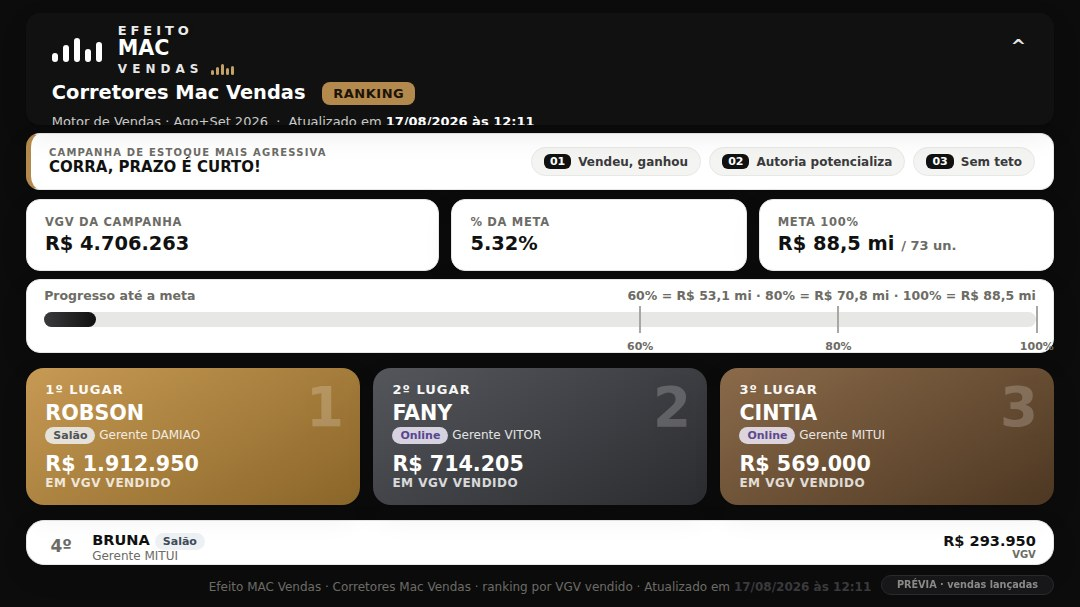
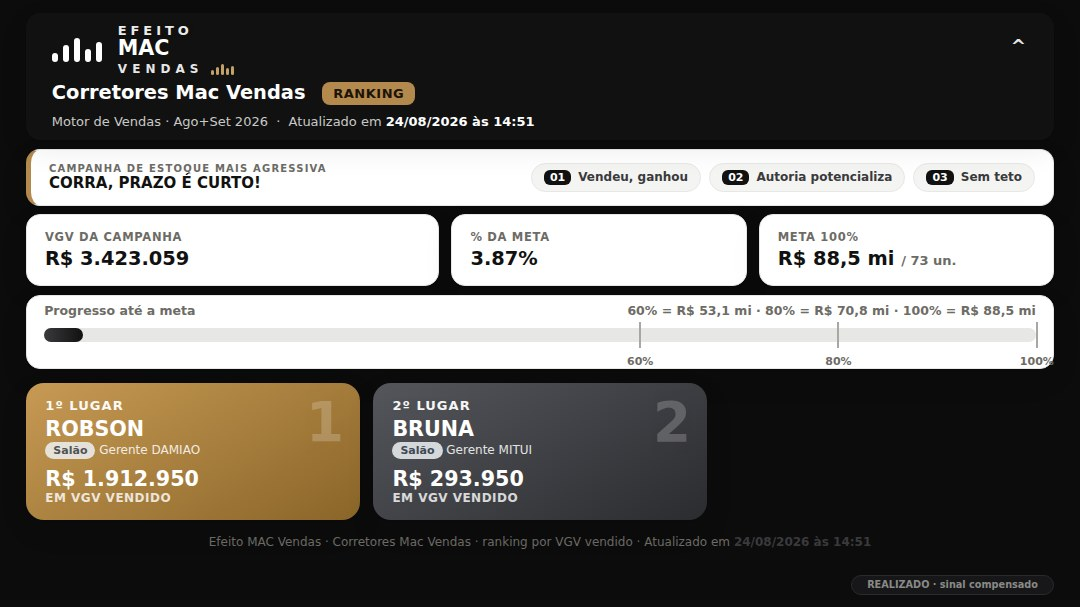
Atualiza números da campanha — posição de 24/08

diff --git a/mural-corretores.html b/mural-corretores.html
@@ -75,7 +75,7 @@ body.tv .foot{margin-top:1vh}body.tv .rot{position:fixed;bottom:2vh;right:2.4vw;
       <div class="logo"><div class="l1">EFEITO</div><div class="l2">MAC</div>
         <div class="l3">VENDAS <span class="bb"><i style="height:5px"></i><i style="height:8px"></i><i style="height:11px"></i><i style="height:7px"></i><i style="height:9px"></i></span></div></div></div>
     <div class="title">Corretores Mac Vendas <span class="tag">RANKING</span></div>
-    <div class="upd">Motor de Vendas · Ago+Set 2026 &nbsp;·&nbsp; Atualizado em <b>17/08/2026 às 12:11</b></div></header>
+    <div class="upd">Motor de Vendas · Ago+Set 2026 &nbsp;·&nbsp; Atualizado em <b>24/08/2026 às 14:51</b></div></header>
   <div class="copy"><div class="hot"><small>Campanha de estoque mais agressiva</small>CORRA, PRAZO É CURTO!</div>
     <div class="efe"><span class="chip"><b>01</b> Vendeu, ganhou</span><span class="chip"><b>02</b> Autoria potencializa</span><span class="chip"><b>03</b> Sem teto</span></div></div>
   <div class="metabar">
@@ -89,11 +89,11 @@ body.tv .foot{margin-top:1vh}body.tv .rot{position:fixed;bottom:2vh;right:2.4vw;
     <button id="btnProj" onclick="setView('projecao')">Projeção · vendas lançadas</button></div>
   <div class="vnote" id="vnote"></div>
   <div id="podium" class="podium"></div><div id="list" class="list"></div>
-  <div class="foot">Efeito MAC Vendas · Corretores Mac Vendas · ranking por VGV vendido · Atualizado em <b>17/08/2026 às 12:11</b></div>
+  <div class="foot">Efeito MAC Vendas · Corretores Mac Vendas · ranking por VGV vendido · Atualizado em <b>24/08/2026 às 14:51</b></div>
   <div class="rot" id="rot" style="display:none"></div>
 </div>
 <script>
-const DATA={"meta": {"vgv": 88516862, "unid": 73, "t60": 53110117, "t80": 70813490, "t100": 88516862}, "realizado": {"vgv_total": 2812189.0, "unid_total": 3.0, "pct": 0.03177009370259872, "trigger": 0, "corretores": {"ROBSON": {"canal": "SALÃO", "gerente": "DAMIAO", "vgv": 1912950.0, "vendas": 1.5, "premiacao": 5000, "detalhe": ["1x Mac Brooklin [sozinho (75%)] -> R$5,000", "(0,5 de Autoria descartada — não fecha unidade)"]}, "BRUNA": {"canal": "SALÃO", "gerente": "MITUI", "vgv": 293950.0, "vendas": 0.5, "premiacao": 0, "detalhe": ["0,5 venda — não pontua até somar 1 unidade"]}}, "gerentes": {"DAMIAO": {"vgv": 1912950.0, "vendas": 1.5, "equipe": ["ROBSON"], "premiacao": 3000, "parcerias_fixo": 0, "total": 3000, "detalhe": ["1x Mac Brooklin [sozinho (75%)] -> R$3,000"]}, "DIEGO": {"vgv": 605289.0, "vendas": 1.0, "equipe": ["JENIFFER"], "premiacao": 1000, "parcerias_fixo": 2000, "total": 3000, "detalhe": ["1x Autoria MAC -> R$1,000"]}, "MITUI": {"vgv": 293950.0, "vendas": 0.5, "equipe": ["BRUNA"], "premiacao": 0, "parcerias_fixo": 0, "total": 0, "detalhe": []}}, "parcerias": {"DIEGO": {"vendas": 1.0, "vgv": 605289.0, "unidades": 1, "fixo": 2000, "corretores": [{"nome": "JENIFFER", "vendas": 1.0, "vgv": 605289.0}]}}, "comercial": {"Luiz": 2812.19, "Bruno": 1619.0, "Danilo": 1193.19, "variavel_por_gestor": 0}, "premio_extra": 0, "sorteio": "—"}, "projecao": {"vgv_total": 4706263.44, "unid_total": 6.0, "pct": 0.05316798781231084, "trigger": 0, "corretores": {"CINTIA": {"canal": "ONLINE", "gerente": "MITUI", "vgv": 569000.0, "vendas": 1.0, "premiacao": 2000, "detalhe": ["1x Autoria MAC [sozinha] -> R$2,000"]}, "ROBSON": {"canal": "SALÃO", "gerente": "DAMIAO", "vgv": 1912950.0, "vendas": 1.5, "premiacao": 5000, "detalhe": ["1x Mac Brooklin [sozinho (75%)] -> R$5,000", "(0,5 de Autoria descartada — não fecha unidade)"]}, "BRUNA": {"canal": "SALÃO", "gerente": "MITUI", "vgv": 293950.0, "vendas": 0.5, "premiacao": 0, "detalhe": ["0,5 venda — não pontua até somar 1 unidade"]}, "FANY": {"canal": "ONLINE", "gerente": "VITOR", "vgv": 714204.86, "vendas": 1.0, "premiacao": 2000, "detalhe": ["1x Autoria MAC [sozinha] -> R$2,000"]}}, "gerentes": {"MITUI": {"vgv": 862950.0, "vendas": 1.5, "equipe": ["BRUNA", "CINTIA"], "premiacao": 1000, "parcerias_fixo": 0, "total": 1000, "detalhe": ["1x Autoria MAC -> R$1,000"]}, "DAMIAO": {"vgv": 1912950.0, "vendas": 1.5, "equipe": ["ROBSON"], "premiacao": 3000, "parcerias_fixo": 0, "total": 3000, "detalhe": ["1x Mac Brooklin [sozinho (75%)] -> R$3,000"]}, "DIEGO": {"vgv": 1216158.58, "vendas": 2.0, "equipe": ["FOXTER", "JENIFFER", "U REAL ESTATE"], "premiacao": 3000, "parcerias_fixo": 4000, "total": 7000, "detalhe": ["2x Autoria MAC -> R$3,000"]}, "VITOR": {"vgv": 714204.86, "vendas": 1.0, "equipe": ["FANY"], "premiacao": 1000, "parcerias_fixo": 0, "total": 1000, "detalhe": ["1x Autoria MAC -> R$1,000"]}}, "parcerias": {"DIEGO": {"vendas": 2.0, "vgv": 1216158.58, "unidades": 2, "fixo": 4000, "corretores": [{"nome": "FOXTER", "vendas": 0.5, "vgv": 305434.79}, {"nome": "JENIFFER", "vendas": 1.0, "vgv": 605289.0}, {"nome": "U REAL ESTATE", "vendas": 0.5, "vgv": 305434.79}]}}, "comercial": {"Luiz": 4706.26, "Bruno": 1619.0, "Danilo": 3087.26, "variavel_por_gestor": 0}, "premio_extra": 0, "sorteio": "—"}, "n_lancadas": 8, "n_validas": 4};const MODE="corretores";const TV=document.body.classList.contains('tv');let view='realizado';
+const DATA={"meta": {"vgv": 88516862, "unid": 73, "t60": 53110117, "t80": 70813490, "t100": 88516862}, "realizado": {"vgv_total": 3423058.58, "unid_total": 4.0, "pct": 0.03867125994592985, "trigger": 0, "corretores": {"ROBSON": {"canal": "SALÃO", "gerente": "DAMIAO", "vgv": 1912950.0, "vendas": 1.5, "premiacao": 5000, "detalhe": ["1x Mac Brooklin [sozinho (75%)] -> R$5,000", "(0,5 de Autoria descartada — não fecha unidade)"]}, "BRUNA": {"canal": "SALÃO", "gerente": "MITUI", "vgv": 293950.0, "vendas": 0.5, "premiacao": 0, "detalhe": ["0,5 venda — não pontua até somar 1 unidade"]}}, "gerentes": {"DAMIAO": {"vgv": 1912950.0, "vendas": 1.5, "equipe": ["ROBSON"], "premiacao": 3000, "parcerias_fixo": 0, "total": 3000, "detalhe": ["1x Mac Brooklin [sozinho (75%)] -> R$3,000"]}, "DIEGO": {"vgv": 1216158.58, "vendas": 2.0, "equipe": ["FOXTER", "JENIFFER", "U REAL ESTATE"], "premiacao": 3000, "parcerias_fixo": 4000, "total": 7000, "detalhe": ["2x Autoria MAC -> R$3,000"]}, "MITUI": {"vgv": 293950.0, "vendas": 0.5, "equipe": ["BRUNA"], "premiacao": 0, "parcerias_fixo": 0, "total": 0, "detalhe": []}}, "parcerias": {"DIEGO": {"vendas": 2.0, "vgv": 1216158.58, "unidades": 2, "fixo": 4000, "corretores": [{"nome": "FOXTER", "vendas": 0.5, "vgv": 305434.79}, {"nome": "JENIFFER", "vendas": 1.0, "vgv": 605289.0}, {"nome": "U REAL ESTATE", "vendas": 0.5, "vgv": 305434.79}]}}, "comercial": {"Luiz": 3423.06, "Bruno": 1619.0, "Danilo": 1804.06, "variavel_por_gestor": 0}, "premio_extra": 0, "sorteio": "—"}, "projecao": {"vgv_total": 7147263.44, "unid_total": 8.0, "pct": 0.08074465450435873, "trigger": 0, "corretores": {"ROBSON": {"canal": "SALÃO", "gerente": "DAMIAO", "vgv": 1912950.0, "vendas": 1.5, "premiacao": 5000, "detalhe": ["1x Mac Brooklin [sozinho (75%)] -> R$5,000", "(0,5 de Autoria descartada — não fecha unidade)"]}, "BRUNA": {"canal": "SALÃO", "gerente": "MITUI", "vgv": 293950.0, "vendas": 0.5, "premiacao": 0, "detalhe": ["0,5 venda — não pontua até somar 1 unidade"]}, "FANY": {"canal": "ONLINE", "gerente": "VITOR", "vgv": 714204.86, "vendas": 1.0, "premiacao": 2000, "detalhe": ["1x Autoria MAC [sozinha] -> R$2,000"]}}, "gerentes": {"DAMIAO": {"vgv": 1912950.0, "vendas": 1.5, "equipe": ["ROBSON"], "premiacao": 3000, "parcerias_fixo": 0, "total": 3000, "detalhe": ["1x Mac Brooklin [sozinho (75%)] -> R$3,000"]}, "DIEGO": {"vgv": 3116158.58, "vendas": 3.0, "equipe": ["FOXTER", "JENIFFER", "U REAL ESTATE", "VIVIANE"], "premiacao": 8000, "parcerias_fixo": 6000, "total": 14000, "detalhe": ["1x Mac Vila Clementino + 2x Autoria MAC -> R$8,000"]}, "MITUI": {"vgv": 293950.0, "vendas": 0.5, "equipe": ["BRUNA"], "premiacao": 0, "parcerias_fixo": 0, "total": 0, "detalhe": []}, "VITOR": {"vgv": 714204.86, "vendas": 1.0, "equipe": ["FANY"], "premiacao": 1000, "parcerias_fixo": 0, "total": 1000, "detalhe": ["1x Autoria MAC -> R$1,000"]}}, "parcerias": {"DIEGO": {"vendas": 3.0, "vgv": 3116158.58, "unidades": 3, "fixo": 6000, "corretores": [{"nome": "FOXTER", "vendas": 0.5, "vgv": 305434.79}, {"nome": "JENIFFER", "vendas": 1.0, "vgv": 605289.0}, {"nome": "U REAL ESTATE", "vendas": 0.5, "vgv": 305434.79}, {"nome": "VIVIANE", "vendas": 1.0, "vgv": 1900000.0}]}}, "comercial": {"Luiz": 7147.26, "Bruno": 1619.0, "Danilo": 5528.26, "variavel_por_gestor": 0}, "premio_extra": 0, "sorteio": "—"}, "n_lancadas": 10, "n_validas": 6};const MODE="corretores";const TV=document.body.classList.contains('tv');let view='realizado';
 const brl=v=>'R$ '+Math.round(v).toLocaleString('pt-BR');
 const canalChip=c=>{const m={'SALÃO':['sal','Salão'],'ONLINE':['onl','Online']};const x=m[c]||['sal',c];return `<span class="pchip ${x[0]}">${x[1]}</span>`;};
 function rows(){const r=DATA[view];

diff --git a/ranking-corretores.html b/ranking-corretores.html
@@ -75,7 +75,7 @@ body.tv .foot{margin-top:1vh}body.tv .rot{position:fixed;bottom:2vh;right:2.4vw;
       <div class="logo"><div class="l1">EFEITO</div><div class="l2">MAC</div>
         <div class="l3">VENDAS <span class="bb"><i style="height:5px"></i><i style="height:8px"></i><i style="height:11px"></i><i style="height:7px"></i><i style="height:9px"></i></span></div></div></div>
     <div class="title">Corretores Mac Vendas <span class="tag">RANKING</span></div>
-    <div class="upd">Motor de Vendas · Ago+Set 2026 &nbsp;·&nbsp; Atualizado em <b>17/08/2026 às 12:11</b></div></header>
+    <div class="upd">Motor de Vendas · Ago+Set 2026 &nbsp;·&nbsp; Atualizado em <b>24/08/2026 às 14:51</b></div></header>
   <div class="copy"><div class="hot"><small>Campanha de estoque mais agressiva</small>CORRA, PRAZO É CURTO!</div>
     <div class="efe"><span class="chip"><b>01</b> Vendeu, ganhou</span><span class="chip"><b>02</b> Autoria potencializa</span><span class="chip"><b>03</b> Sem teto</span></div></div>
   <div class="metabar">
@@ -89,11 +89,11 @@ body.tv .foot{margin-top:1vh}body.tv .rot{position:fixed;bottom:2vh;right:2.4vw;
     <button id="btnProj" onclick="setView('projecao')">Projeção · vendas lançadas</button></div>
   <div class="vnote" id="vnote"></div>
   <div id="podium" class="podium"></div><div id="list" class="list"></div>
-  <div class="foot">Efeito MAC Vendas · Corretores Mac Vendas · ranking por VGV vendido · Atualizado em <b>17/08/2026 às 12:11</b></div>
+  <div class="foot">Efeito MAC Vendas · Corretores Mac Vendas · ranking por VGV vendido · Atualizado em <b>24/08/2026 às 14:51</b></div>
   <div class="rot" id="rot" style="display:none"></div>
 </div>
 <script>
-const DATA={"meta": {"vgv": 88516862, "unid": 73, "t60": 53110117, "t80": 70813490, "t100": 88516862}, "realizado": {"vgv_total": 2812189.0, "unid_total": 3.0, "pct": 0.03177009370259872, "trigger": 0, "corretores": {"ROBSON": {"canal": "SALÃO", "gerente": "DAMIAO", "vgv": 1912950.0, "vendas": 1.5, "premiacao": 5000, "detalhe": ["1x Mac Brooklin [sozinho (75%)] -> R$5,000", "(0,5 de Autoria descartada — não fecha unidade)"]}, "BRUNA": {"canal": "SALÃO", "gerente": "MITUI", "vgv": 293950.0, "vendas": 0.5, "premiacao": 0, "detalhe": ["0,5 venda — não pontua até somar 1 unidade"]}}, "gerentes": {"DAMIAO": {"vgv": 1912950.0, "vendas": 1.5, "equipe": ["ROBSON"], "premiacao": 3000, "parcerias_fixo": 0, "total": 3000, "detalhe": ["1x Mac Brooklin [sozinho (75%)] -> R$3,000"]}, "DIEGO": {"vgv": 605289.0, "vendas": 1.0, "equipe": ["JENIFFER"], "premiacao": 1000, "parcerias_fixo": 2000, "total": 3000, "detalhe": ["1x Autoria MAC -> R$1,000"]}, "MITUI": {"vgv": 293950.0, "vendas": 0.5, "equipe": ["BRUNA"], "premiacao": 0, "parcerias_fixo": 0, "total": 0, "detalhe": []}}, "parcerias": {"DIEGO": {"vendas": 1.0, "vgv": 605289.0, "unidades": 1, "fixo": 2000, "corretores": [{"nome": "JENIFFER", "vendas": 1.0, "vgv": 605289.0}]}}, "comercial": {"Luiz": 2812.19, "Bruno": 1619.0, "Danilo": 1193.19, "variavel_por_gestor": 0}, "premio_extra": 0, "sorteio": "—"}, "projecao": {"vgv_total": 4706263.44, "unid_total": 6.0, "pct": 0.05316798781231084, "trigger": 0, "corretores": {"CINTIA": {"canal": "ONLINE", "gerente": "MITUI", "vgv": 569000.0, "vendas": 1.0, "premiacao": 2000, "detalhe": ["1x Autoria MAC [sozinha] -> R$2,000"]}, "ROBSON": {"canal": "SALÃO", "gerente": "DAMIAO", "vgv": 1912950.0, "vendas": 1.5, "premiacao": 5000, "detalhe": ["1x Mac Brooklin [sozinho (75%)] -> R$5,000", "(0,5 de Autoria descartada — não fecha unidade)"]}, "BRUNA": {"canal": "SALÃO", "gerente": "MITUI", "vgv": 293950.0, "vendas": 0.5, "premiacao": 0, "detalhe": ["0,5 venda — não pontua até somar 1 unidade"]}, "FANY": {"canal": "ONLINE", "gerente": "VITOR", "vgv": 714204.86, "vendas": 1.0, "premiacao": 2000, "detalhe": ["1x Autoria MAC [sozinha] -> R$2,000"]}}, "gerentes": {"MITUI": {"vgv": 862950.0, "vendas": 1.5, "equipe": ["BRUNA", "CINTIA"], "premiacao": 1000, "parcerias_fixo": 0, "total": 1000, "detalhe": ["1x Autoria MAC -> R$1,000"]}, "DAMIAO": {"vgv": 1912950.0, "vendas": 1.5, "equipe": ["ROBSON"], "premiacao": 3000, "parcerias_fixo": 0, "total": 3000, "detalhe": ["1x Mac Brooklin [sozinho (75%)] -> R$3,000"]}, "DIEGO": {"vgv": 1216158.58, "vendas": 2.0, "equipe": ["FOXTER", "JENIFFER", "U REAL ESTATE"], "premiacao": 3000, "parcerias_fixo": 4000, "total": 7000, "detalhe": ["2x Autoria MAC -> R$3,000"]}, "VITOR": {"vgv": 714204.86, "vendas": 1.0, "equipe": ["FANY"], "premiacao": 1000, "parcerias_fixo": 0, "total": 1000, "detalhe": ["1x Autoria MAC -> R$1,000"]}}, "parcerias": {"DIEGO": {"vendas": 2.0, "vgv": 1216158.58, "unidades": 2, "fixo": 4000, "corretores": [{"nome": "FOXTER", "vendas": 0.5, "vgv": 305434.79}, {"nome": "JENIFFER", "vendas": 1.0, "vgv": 605289.0}, {"nome": "U REAL ESTATE", "vendas": 0.5, "vgv": 305434.79}]}}, "comercial": {"Luiz": 4706.26, "Bruno": 1619.0, "Danilo": 3087.26, "variavel_por_gestor": 0}, "premio_extra": 0, "sorteio": "—"}, "n_lancadas": 8, "n_validas": 4};const MODE="corretores";const TV=document.body.classList.contains('tv');let view='realizado';
+const DATA={"meta": {"vgv": 88516862, "unid": 73, "t60": 53110117, "t80": 70813490, "t100": 88516862}, "realizado": {"vgv_total": 3423058.58, "unid_total": 4.0, "pct": 0.03867125994592985, "trigger": 0, "corretores": {"ROBSON": {"canal": "SALÃO", "gerente": "DAMIAO", "vgv": 1912950.0, "vendas": 1.5, "premiacao": 5000, "detalhe": ["1x Mac Brooklin [sozinho (75%)] -> R$5,000", "(0,5 de Autoria descartada — não fecha unidade)"]}, "BRUNA": {"canal": "SALÃO", "gerente": "MITUI", "vgv": 293950.0, "vendas": 0.5, "premiacao": 0, "detalhe": ["0,5 venda — não pontua até somar 1 unidade"]}}, "gerentes": {"DAMIAO": {"vgv": 1912950.0, "vendas": 1.5, "equipe": ["ROBSON"], "premiacao": 3000, "parcerias_fixo": 0, "total": 3000, "detalhe": ["1x Mac Brooklin [sozinho (75%)] -> R$3,000"]}, "DIEGO": {"vgv": 1216158.58, "vendas": 2.0, "equipe": ["FOXTER", "JENIFFER", "U REAL ESTATE"], "premiacao": 3000, "parcerias_fixo": 4000, "total": 7000, "detalhe": ["2x Autoria MAC -> R$3,000"]}, "MITUI": {"vgv": 293950.0, "vendas": 0.5, "equipe": ["BRUNA"], "premiacao": 0, "parcerias_fixo": 0, "total": 0, "detalhe": []}}, "parcerias": {"DIEGO": {"vendas": 2.0, "vgv": 1216158.58, "unidades": 2, "fixo": 4000, "corretores": [{"nome": "FOXTER", "vendas": 0.5, "vgv": 305434.79}, {"nome": "JENIFFER", "vendas": 1.0, "vgv": 605289.0}, {"nome": "U REAL ESTATE", "vendas": 0.5, "vgv": 305434.79}]}}, "comercial": {"Luiz": 3423.06, "Bruno": 1619.0, "Danilo": 1804.06, "variavel_por_gestor": 0}, "premio_extra": 0, "sorteio": "—"}, "projecao": {"vgv_total": 7147263.44, "unid_total": 8.0, "pct": 0.08074465450435873, "trigger": 0, "corretores": {"ROBSON": {"canal": "SALÃO", "gerente": "DAMIAO", "vgv": 1912950.0, "vendas": 1.5, "premiacao": 5000, "detalhe": ["1x Mac Brooklin [sozinho (75%)] -> R$5,000", "(0,5 de Autoria descartada — não fecha unidade)"]}, "BRUNA": {"canal": "SALÃO", "gerente": "MITUI", "vgv": 293950.0, "vendas": 0.5, "premiacao": 0, "detalhe": ["0,5 venda — não pontua até somar 1 unidade"]}, "FANY": {"canal": "ONLINE", "gerente": "VITOR", "vgv": 714204.86, "vendas": 1.0, "premiacao": 2000, "detalhe": ["1x Autoria MAC [sozinha] -> R$2,000"]}}, "gerentes": {"DAMIAO": {"vgv": 1912950.0, "vendas": 1.5, "equipe": ["ROBSON"], "premiacao": 3000, "parcerias_fixo": 0, "total": 3000, "detalhe": ["1x Mac Brooklin [sozinho (75%)] -> R$3,000"]}, "DIEGO": {"vgv": 3116158.58, "vendas": 3.0, "equipe": ["FOXTER", "JENIFFER", "U REAL ESTATE", "VIVIANE"], "premiacao": 8000, "parcerias_fixo": 6000, "total": 14000, "detalhe": ["1x Mac Vila Clementino + 2x Autoria MAC -> R$8,000"]}, "MITUI": {"vgv": 293950.0, "vendas": 0.5, "equipe": ["BRUNA"], "premiacao": 0, "parcerias_fixo": 0, "total": 0, "detalhe": []}, "VITOR": {"vgv": 714204.86, "vendas": 1.0, "equipe": ["FANY"], "premiacao": 1000, "parcerias_fixo": 0, "total": 1000, "detalhe": ["1x Autoria MAC -> R$1,000"]}}, "parcerias": {"DIEGO": {"vendas": 3.0, "vgv": 3116158.58, "unidades": 3, "fixo": 6000, "corretores": [{"nome": "FOXTER", "vendas": 0.5, "vgv": 305434.79}, {"nome": "JENIFFER", "vendas": 1.0, "vgv": 605289.0}, {"nome": "U REAL ESTATE", "vendas": 0.5, "vgv": 305434.79}, {"nome": "VIVIANE", "vendas": 1.0, "vgv": 1900000.0}]}}, "comercial": {"Luiz": 7147.26, "Bruno": 1619.0, "Danilo": 5528.26, "variavel_por_gestor": 0}, "premio_extra": 0, "sorteio": "—"}, "n_lancadas": 10, "n_validas": 6};const MODE="corretores";const TV=document.body.classList.contains('tv');let view='realizado';
 const brl=v=>'R$ '+Math.round(v).toLocaleString('pt-BR');
 const canalChip=c=>{const m={'SALÃO':['sal','Salão'],'ONLINE':['onl','Online']};const x=m[c]||['sal',c];return `<span class="pchip ${x[0]}">${x[1]}</span>`;};
 function rows(){const r=DATA[view];

diff --git a/mural-gerentes.html b/mural-gerentes.html
@@ -75,7 +75,7 @@ body.tv .foot{margin-top:1vh}body.tv .rot{position:fixed;bottom:2vh;right:2.4vw;
       <div class="logo"><div class="l1">EFEITO</div><div class="l2">MAC</div>
         <div class="l3">VENDAS <span class="bb"><i style="height:5px"></i><i style="height:8px"></i><i style="height:11px"></i><i style="height:7px"></i><i style="height:9px"></i></span></div></div></div>
     <div class="title">Gerentes Mac Vendas <span class="tag">RANKING</span></div>
-    <div class="upd">Motor de Vendas · Ago+Set 2026 &nbsp;·&nbsp; Atualizado em <b>17/08/2026 às 12:11</b></div></header>
+    <div class="upd">Motor de Vendas · Ago+Set 2026 &nbsp;·&nbsp; Atualizado em <b>24/08/2026 às 14:51</b></div></header>
   <div class="copy"><div class="hot"><small>Campanha de estoque mais agressiva</small>CORRA, PRAZO É CURTO!</div>
     <div class="efe"><span class="chip"><b>01</b> Vendeu, ganhou</span><span class="chip"><b>02</b> Autoria potencializa</span><span class="chip"><b>03</b> Sem teto</span></div></div>
   <div class="metabar">
@@ -89,11 +89,11 @@ body.tv .foot{margin-top:1vh}body.tv .rot{position:fixed;bottom:2vh;right:2.4vw;
     <button id="btnProj" onclick="setView('projecao')">Projeção · vendas lançadas</button></div>
   <div class="vnote" id="vnote"></div>
   <div id="podium" class="podium"></div><div id="list" class="list"></div>
-  <div class="foot">Efeito MAC Vendas · Gerentes Mac Vendas · ranking por VGV vendido · Atualizado em <b>17/08/2026 às 12:11</b></div>
+  <div class="foot">Efeito MAC Vendas · Gerentes Mac Vendas · ranking por VGV vendido · Atualizado em <b>24/08/2026 às 14:51</b></div>
   <div class="rot" id="rot" style="display:none"></div>
 </div>
 <script>
-const DATA={"meta": {"vgv": 88516862, "unid": 73, "t60": 53110117, "t80": 70813490, "t100": 88516862}, "realizado": {"vgv_total": 2812189.0, "unid_total": 3.0, "pct": 0.03177009370259872, "trigger": 0, "corretores": {"ROBSON": {"canal": "SALÃO", "gerente": "DAMIAO", "vgv": 1912950.0, "vendas": 1.5, "premiacao": 5000, "detalhe": ["1x Mac Brooklin [sozinho (75%)] -> R$5,000", "(0,5 de Autoria descartada — não fecha unidade)"]}, "BRUNA": {"canal": "SALÃO", "gerente": "MITUI", "vgv": 293950.0, "vendas": 0.5, "premiacao": 0, "detalhe": ["0,5 venda — não pontua até somar 1 unidade"]}}, "gerentes": {"DAMIAO": {"vgv": 1912950.0, "vendas": 1.5, "equipe": ["ROBSON"], "premiacao": 3000, "parcerias_fixo": 0, "total": 3000, "detalhe": ["1x Mac Brooklin [sozinho (75%)] -> R$3,000"]}, "DIEGO": {"vgv": 605289.0, "vendas": 1.0, "equipe": ["JENIFFER"], "premiacao": 1000, "parcerias_fixo": 2000, "total": 3000, "detalhe": ["1x Autoria MAC -> R$1,000"]}, "MITUI": {"vgv": 293950.0, "vendas": 0.5, "equipe": ["BRUNA"], "premiacao": 0, "parcerias_fixo": 0, "total": 0, "detalhe": []}}, "parcerias": {"DIEGO": {"vendas": 1.0, "vgv": 605289.0, "unidades": 1, "fixo": 2000, "corretores": [{"nome": "JENIFFER", "vendas": 1.0, "vgv": 605289.0}]}}, "comercial": {"Luiz": 2812.19, "Bruno": 1619.0, "Danilo": 1193.19, "variavel_por_gestor": 0}, "premio_extra": 0, "sorteio": "—"}, "projecao": {"vgv_total": 4706263.44, "unid_total": 6.0, "pct": 0.05316798781231084, "trigger": 0, "corretores": {"CINTIA": {"canal": "ONLINE", "gerente": "MITUI", "vgv": 569000.0, "vendas": 1.0, "premiacao": 2000, "detalhe": ["1x Autoria MAC [sozinha] -> R$2,000"]}, "ROBSON": {"canal": "SALÃO", "gerente": "DAMIAO", "vgv": 1912950.0, "vendas": 1.5, "premiacao": 5000, "detalhe": ["1x Mac Brooklin [sozinho (75%)] -> R$5,000", "(0,5 de Autoria descartada — não fecha unidade)"]}, "BRUNA": {"canal": "SALÃO", "gerente": "MITUI", "vgv": 293950.0, "vendas": 0.5, "premiacao": 0, "detalhe": ["0,5 venda — não pontua até somar 1 unidade"]}, "FANY": {"canal": "ONLINE", "gerente": "VITOR", "vgv": 714204.86, "vendas": 1.0, "premiacao": 2000, "detalhe": ["1x Autoria MAC [sozinha] -> R$2,000"]}}, "gerentes": {"MITUI": {"vgv": 862950.0, "vendas": 1.5, "equipe": ["BRUNA", "CINTIA"], "premiacao": 1000, "parcerias_fixo": 0, "total": 1000, "detalhe": ["1x Autoria MAC -> R$1,000"]}, "DAMIAO": {"vgv": 1912950.0, "vendas": 1.5, "equipe": ["ROBSON"], "premiacao": 3000, "parcerias_fixo": 0, "total": 3000, "detalhe": ["1x Mac Brooklin [sozinho (75%)] -> R$3,000"]}, "DIEGO": {"vgv": 1216158.58, "vendas": 2.0, "equipe": ["FOXTER", "JENIFFER", "U REAL ESTATE"], "premiacao": 3000, "parcerias_fixo": 4000, "total": 7000, "detalhe": ["2x Autoria MAC -> R$3,000"]}, "VITOR": {"vgv": 714204.86, "vendas": 1.0, "equipe": ["FANY"], "premiacao": 1000, "parcerias_fixo": 0, "total": 1000, "detalhe": ["1x Autoria MAC -> R$1,000"]}}, "parcerias": {"DIEGO": {"vendas": 2.0, "vgv": 1216158.58, "unidades": 2, "fixo": 4000, "corretores": [{"nome": "FOXTER", "vendas": 0.5, "vgv": 305434.79}, {"nome": "JENIFFER", "vendas": 1.0, "vgv": 605289.0}, {"nome": "U REAL ESTATE", "vendas": 0.5, "vgv": 305434.79}]}}, "comercial": {"Luiz": 4706.26, "Bruno": 1619.0, "Danilo": 3087.26, "variavel_por_gestor": 0}, "premio_extra": 0, "sorteio": "—"}, "n_lancadas": 8, "n_validas": 4};const MODE="gerentes";const TV=document.body.classList.contains('tv');let view='realizado';
+const DATA={"meta": {"vgv": 88516862, "unid": 73, "t60": 53110117, "t80": 70813490, "t100": 88516862}, "realizado": {"vgv_total": 3423058.58, "unid_total": 4.0, "pct": 0.03867125994592985, "trigger": 0, "corretores": {"ROBSON": {"canal": "SALÃO", "gerente": "DAMIAO", "vgv": 1912950.0, "vendas": 1.5, "premiacao": 5000, "detalhe": ["1x Mac Brooklin [sozinho (75%)] -> R$5,000", "(0,5 de Autoria descartada — não fecha unidade)"]}, "BRUNA": {"canal": "SALÃO", "gerente": "MITUI", "vgv": 293950.0, "vendas": 0.5, "premiacao": 0, "detalhe": ["0,5 venda — não pontua até somar 1 unidade"]}}, "gerentes": {"DAMIAO": {"vgv": 1912950.0, "vendas": 1.5, "equipe": ["ROBSON"], "premiacao": 3000, "parcerias_fixo": 0, "total": 3000, "detalhe": ["1x Mac Brooklin [sozinho (75%)] -> R$3,000"]}, "DIEGO": {"vgv": 1216158.58, "vendas": 2.0, "equipe": ["FOXTER", "JENIFFER", "U REAL ESTATE"], "premiacao": 3000, "parcerias_fixo": 4000, "total": 7000, "detalhe": ["2x Autoria MAC -> R$3,000"]}, "MITUI": {"vgv": 293950.0, "vendas": 0.5, "equipe": ["BRUNA"], "premiacao": 0, "parcerias_fixo": 0, "total": 0, "detalhe": []}}, "parcerias": {"DIEGO": {"vendas": 2.0, "vgv": 1216158.58, "unidades": 2, "fixo": 4000, "corretores": [{"nome": "FOXTER", "vendas": 0.5, "vgv": 305434.79}, {"nome": "JENIFFER", "vendas": 1.0, "vgv": 605289.0}, {"nome": "U REAL ESTATE", "vendas": 0.5, "vgv": 305434.79}]}}, "comercial": {"Luiz": 3423.06, "Bruno": 1619.0, "Danilo": 1804.06, "variavel_por_gestor": 0}, "premio_extra": 0, "sorteio": "—"}, "projecao": {"vgv_total": 7147263.44, "unid_total": 8.0, "pct": 0.08074465450435873, "trigger": 0, "corretores": {"ROBSON": {"canal": "SALÃO", "gerente": "DAMIAO", "vgv": 1912950.0, "vendas": 1.5, "premiacao": 5000, "detalhe": ["1x Mac Brooklin [sozinho (75%)] -> R$5,000", "(0,5 de Autoria descartada — não fecha unidade)"]}, "BRUNA": {"canal": "SALÃO", "gerente": "MITUI", "vgv": 293950.0, "vendas": 0.5, "premiacao": 0, "detalhe": ["0,5 venda — não pontua até somar 1 unidade"]}, "FANY": {"canal": "ONLINE", "gerente": "VITOR", "vgv": 714204.86, "vendas": 1.0, "premiacao": 2000, "detalhe": ["1x Autoria MAC [sozinha] -> R$2,000"]}}, "gerentes": {"DAMIAO": {"vgv": 1912950.0, "vendas": 1.5, "equipe": ["ROBSON"], "premiacao": 3000, "parcerias_fixo": 0, "total": 3000, "detalhe": ["1x Mac Brooklin [sozinho (75%)] -> R$3,000"]}, "DIEGO": {"vgv": 3116158.58, "vendas": 3.0, "equipe": ["FOXTER", "JENIFFER", "U REAL ESTATE", "VIVIANE"], "premiacao": 8000, "parcerias_fixo": 6000, "total": 14000, "detalhe": ["1x Mac Vila Clementino + 2x Autoria MAC -> R$8,000"]}, "MITUI": {"vgv": 293950.0, "vendas": 0.5, "equipe": ["BRUNA"], "premiacao": 0, "parcerias_fixo": 0, "total": 0, "detalhe": []}, "VITOR": {"vgv": 714204.86, "vendas": 1.0, "equipe": ["FANY"], "premiacao": 1000, "parcerias_fixo": 0, "total": 1000, "detalhe": ["1x Autoria MAC -> R$1,000"]}}, "parcerias": {"DIEGO": {"vendas": 3.0, "vgv": 3116158.58, "unidades": 3, "fixo": 6000, "corretores": [{"nome": "FOXTER", "vendas": 0.5, "vgv": 305434.79}, {"nome": "JENIFFER", "vendas": 1.0, "vgv": 605289.0}, {"nome": "U REAL ESTATE", "vendas": 0.5, "vgv": 305434.79}, {"nome": "VIVIANE", "vendas": 1.0, "vgv": 1900000.0}]}}, "comercial": {"Luiz": 7147.26, "Bruno": 1619.0, "Danilo": 5528.26, "variavel_por_gestor": 0}, "premio_extra": 0, "sorteio": "—"}, "n_lancadas": 10, "n_validas": 6};const MODE="gerentes";const TV=document.body.classList.contains('tv');let view='realizado';
 const brl=v=>'R$ '+Math.round(v).toLocaleString('pt-BR');
 const canalChip=c=>{const m={'SALÃO':['sal','Salão'],'ONLINE':['onl','Online']};const x=m[c]||['sal',c];return `<span class="pchip ${x[0]}">${x[1]}</span>`;};
 function rows(){const r=DATA[view];

diff --git a/ranking-gerentes.html b/ranking-gerentes.html
@@ -75,7 +75,7 @@ body.tv .foot{margin-top:1vh}body.tv .rot{position:fixed;bottom:2vh;right:2.4vw;
       <div class="logo"><div class="l1">EFEITO</div><div class="l2">MAC</div>
         <div class="l3">VENDAS <span class="bb"><i style="height:5px"></i><i style="height:8px"></i><i style="height:11px"></i><i style="height:7px"></i><i style="height:9px"></i></span></div></div></div>
     <div class="title">Gerentes Mac Vendas <span class="tag">RANKING</span></div>
-    <div class="upd">Motor de Vendas · Ago+Set 2026 &nbsp;·&nbsp; Atualizado em <b>17/08/2026 às 12:11</b></div></header>
+    <div class="upd">Motor de Vendas · Ago+Set 2026 &nbsp;·&nbsp; Atualizado em <b>24/08/2026 às 14:51</b></div></header>
   <div class="copy"><div class="hot"><small>Campanha de estoque mais agressiva</small>CORRA, PRAZO É CURTO!</div>
     <div class="efe"><span class="chip"><b>01</b> Vendeu, ganhou</span><span class="chip"><b>02</b> Autoria potencializa</span><span class="chip"><b>03</b> Sem teto</span></div></div>
   <div class="metabar">
@@ -89,11 +89,11 @@ body.tv .foot{margin-top:1vh}body.tv .rot{position:fixed;bottom:2vh;right:2.4vw;
     <button id="btnProj" onclick="setView('projecao')">Projeção · vendas lançadas</button></div>
   <div class="vnote" id="vnote"></div>
   <div id="podium" class="podium"></div><div id="list" class="list"></div>
-  <div class="foot">Efeito MAC Vendas · Gerentes Mac Vendas · ranking por VGV vendido · Atualizado em <b>17/08/2026 às 12:11</b></div>
+  <div class="foot">Efeito MAC Vendas · Gerentes Mac Vendas · ranking por VGV vendido · Atualizado em <b>24/08/2026 às 14:51</b></div>
   <div class="rot" id="rot" style="display:none"></div>
 </div>
 <script>
-const DATA={"meta": {"vgv": 88516862, "unid": 73, "t60": 53110117, "t80": 70813490, "t100": 88516862}, "realizado": {"vgv_total": 2812189.0, "unid_total": 3.0, "pct": 0.03177009370259872, "trigger": 0, "corretores": {"ROBSON": {"canal": "SALÃO", "gerente": "DAMIAO", "vgv": 1912950.0, "vendas": 1.5, "premiacao": 5000, "detalhe": ["1x Mac Brooklin [sozinho (75%)] -> R$5,000", "(0,5 de Autoria descartada — não fecha unidade)"]}, "BRUNA": {"canal": "SALÃO", "gerente": "MITUI", "vgv": 293950.0, "vendas": 0.5, "premiacao": 0, "detalhe": ["0,5 venda — não pontua até somar 1 unidade"]}}, "gerentes": {"DAMIAO": {"vgv": 1912950.0, "vendas": 1.5, "equipe": ["ROBSON"], "premiacao": 3000, "parcerias_fixo": 0, "total": 3000, "detalhe": ["1x Mac Brooklin [sozinho (75%)] -> R$3,000"]}, "DIEGO": {"vgv": 605289.0, "vendas": 1.0, "equipe": ["JENIFFER"], "premiacao": 1000, "parcerias_fixo": 2000, "total": 3000, "detalhe": ["1x Autoria MAC -> R$1,000"]}, "MITUI": {"vgv": 293950.0, "vendas": 0.5, "equipe": ["BRUNA"], "premiacao": 0, "parcerias_fixo": 0, "total": 0, "detalhe": []}}, "parcerias": {"DIEGO": {"vendas": 1.0, "vgv": 605289.0, "unidades": 1, "fixo": 2000, "corretores": [{"nome": "JENIFFER", "vendas": 1.0, "vgv": 605289.0}]}}, "comercial": {"Luiz": 2812.19, "Bruno": 1619.0, "Danilo": 1193.19, "variavel_por_gestor": 0}, "premio_extra": 0, "sorteio": "—"}, "projecao": {"vgv_total": 4706263.44, "unid_total": 6.0, "pct": 0.05316798781231084, "trigger": 0, "corretores": {"CINTIA": {"canal": "ONLINE", "gerente": "MITUI", "vgv": 569000.0, "vendas": 1.0, "premiacao": 2000, "detalhe": ["1x Autoria MAC [sozinha] -> R$2,000"]}, "ROBSON": {"canal": "SALÃO", "gerente": "DAMIAO", "vgv": 1912950.0, "vendas": 1.5, "premiacao": 5000, "detalhe": ["1x Mac Brooklin [sozinho (75%)] -> R$5,000", "(0,5 de Autoria descartada — não fecha unidade)"]}, "BRUNA": {"canal": "SALÃO", "gerente": "MITUI", "vgv": 293950.0, "vendas": 0.5, "premiacao": 0, "detalhe": ["0,5 venda — não pontua até somar 1 unidade"]}, "FANY": {"canal": "ONLINE", "gerente": "VITOR", "vgv": 714204.86, "vendas": 1.0, "premiacao": 2000, "detalhe": ["1x Autoria MAC [sozinha] -> R$2,000"]}}, "gerentes": {"MITUI": {"vgv": 862950.0, "vendas": 1.5, "equipe": ["BRUNA", "CINTIA"], "premiacao": 1000, "parcerias_fixo": 0, "total": 1000, "detalhe": ["1x Autoria MAC -> R$1,000"]}, "DAMIAO": {"vgv": 1912950.0, "vendas": 1.5, "equipe": ["ROBSON"], "premiacao": 3000, "parcerias_fixo": 0, "total": 3000, "detalhe": ["1x Mac Brooklin [sozinho (75%)] -> R$3,000"]}, "DIEGO": {"vgv": 1216158.58, "vendas": 2.0, "equipe": ["FOXTER", "JENIFFER", "U REAL ESTATE"], "premiacao": 3000, "parcerias_fixo": 4000, "total": 7000, "detalhe": ["2x Autoria MAC -> R$3,000"]}, "VITOR": {"vgv": 714204.86, "vendas": 1.0, "equipe": ["FANY"], "premiacao": 1000, "parcerias_fixo": 0, "total": 1000, "detalhe": ["1x Autoria MAC -> R$1,000"]}}, "parcerias": {"DIEGO": {"vendas": 2.0, "vgv": 1216158.58, "unidades": 2, "fixo": 4000, "corretores": [{"nome": "FOXTER", "vendas": 0.5, "vgv": 305434.79}, {"nome": "JENIFFER", "vendas": 1.0, "vgv": 605289.0}, {"nome": "U REAL ESTATE", "vendas": 0.5, "vgv": 305434.79}]}}, "comercial": {"Luiz": 4706.26, "Bruno": 1619.0, "Danilo": 3087.26, "variavel_por_gestor": 0}, "premio_extra": 0, "sorteio": "—"}, "n_lancadas": 8, "n_validas": 4};const MODE="gerentes";const TV=document.body.classList.contains('tv');let view='realizado';
+const DATA={"meta": {"vgv": 88516862, "unid": 73, "t60": 53110117, "t80": 70813490, "t100": 88516862}, "realizado": {"vgv_total": 3423058.58, "unid_total": 4.0, "pct": 0.03867125994592985, "trigger": 0, "corretores": {"ROBSON": {"canal": "SALÃO", "gerente": "DAMIAO", "vgv": 1912950.0, "vendas": 1.5, "premiacao": 5000, "detalhe": ["1x Mac Brooklin [sozinho (75%)] -> R$5,000", "(0,5 de Autoria descartada — não fecha unidade)"]}, "BRUNA": {"canal": "SALÃO", "gerente": "MITUI", "vgv": 293950.0, "vendas": 0.5, "premiacao": 0, "detalhe": ["0,5 venda — não pontua até somar 1 unidade"]}}, "gerentes": {"DAMIAO": {"vgv": 1912950.0, "vendas": 1.5, "equipe": ["ROBSON"], "premiacao": 3000, "parcerias_fixo": 0, "total": 3000, "detalhe": ["1x Mac Brooklin [sozinho (75%)] -> R$3,000"]}, "DIEGO": {"vgv": 1216158.58, "vendas": 2.0, "equipe": ["FOXTER", "JENIFFER", "U REAL ESTATE"], "premiacao": 3000, "parcerias_fixo": 4000, "total": 7000, "detalhe": ["2x Autoria MAC -> R$3,000"]}, "MITUI": {"vgv": 293950.0, "vendas": 0.5, "equipe": ["BRUNA"], "premiacao": 0, "parcerias_fixo": 0, "total": 0, "detalhe": []}}, "parcerias": {"DIEGO": {"vendas": 2.0, "vgv": 1216158.58, "unidades": 2, "fixo": 4000, "corretores": [{"nome": "FOXTER", "vendas": 0.5, "vgv": 305434.79}, {"nome": "JENIFFER", "vendas": 1.0, "vgv": 605289.0}, {"nome": "U REAL ESTATE", "vendas": 0.5, "vgv": 305434.79}]}}, "comercial": {"Luiz": 3423.06, "Bruno": 1619.0, "Danilo": 1804.06, "variavel_por_gestor": 0}, "premio_extra": 0, "sorteio": "—"}, "projecao": {"vgv_total": 7147263.44, "unid_total": 8.0, "pct": 0.08074465450435873, "trigger": 0, "corretores": {"ROBSON": {"canal": "SALÃO", "gerente": "DAMIAO", "vgv": 1912950.0, "vendas": 1.5, "premiacao": 5000, "detalhe": ["1x Mac Brooklin [sozinho (75%)] -> R$5,000", "(0,5 de Autoria descartada — não fecha unidade)"]}, "BRUNA": {"canal": "SALÃO", "gerente": "MITUI", "vgv": 293950.0, "vendas": 0.5, "premiacao": 0, "detalhe": ["0,5 venda — não pontua até somar 1 unidade"]}, "FANY": {"canal": "ONLINE", "gerente": "VITOR", "vgv": 714204.86, "vendas": 1.0, "premiacao": 2000, "detalhe": ["1x Autoria MAC [sozinha] -> R$2,000"]}}, "gerentes": {"DAMIAO": {"vgv": 1912950.0, "vendas": 1.5, "equipe": ["ROBSON"], "premiacao": 3000, "parcerias_fixo": 0, "total": 3000, "detalhe": ["1x Mac Brooklin [sozinho (75%)] -> R$3,000"]}, "DIEGO": {"vgv": 3116158.58, "vendas": 3.0, "equipe": ["FOXTER", "JENIFFER", "U REAL ESTATE", "VIVIANE"], "premiacao": 8000, "parcerias_fixo": 6000, "total": 14000, "detalhe": ["1x Mac Vila Clementino + 2x Autoria MAC -> R$8,000"]}, "MITUI": {"vgv": 293950.0, "vendas": 0.5, "equipe": ["BRUNA"], "premiacao": 0, "parcerias_fixo": 0, "total": 0, "detalhe": []}, "VITOR": {"vgv": 714204.86, "vendas": 1.0, "equipe": ["FANY"], "premiacao": 1000, "parcerias_fixo": 0, "total": 1000, "detalhe": ["1x Autoria MAC -> R$1,000"]}}, "parcerias": {"DIEGO": {"vendas": 3.0, "vgv": 3116158.58, "unidades": 3, "fixo": 6000, "corretores": [{"nome": "FOXTER", "vendas": 0.5, "vgv": 305434.79}, {"nome": "JENIFFER", "vendas": 1.0, "vgv": 605289.0}, {"nome": "U REAL ESTATE", "vendas": 0.5, "vgv": 305434.79}, {"nome": "VIVIANE", "vendas": 1.0, "vgv": 1900000.0}]}}, "comercial": {"Luiz": 7147.26, "Bruno": 1619.0, "Danilo": 5528.26, "variavel_por_gestor": 0}, "premio_extra": 0, "sorteio": "—"}, "n_lancadas": 10, "n_validas": 6};const MODE="gerentes";const TV=document.body.classList.contains('tv');let view='realizado';
 const brl=v=>'R$ '+Math.round(v).toLocaleString('pt-BR');
 const canalChip=c=>{const m={'SALÃO':['sal','Salão'],'ONLINE':['onl','Online']};const x=m[c]||['sal',c];return `<span class="pchip ${x[0]}">${x[1]}</span>`;};
 function rows(){const r=DATA[view];
